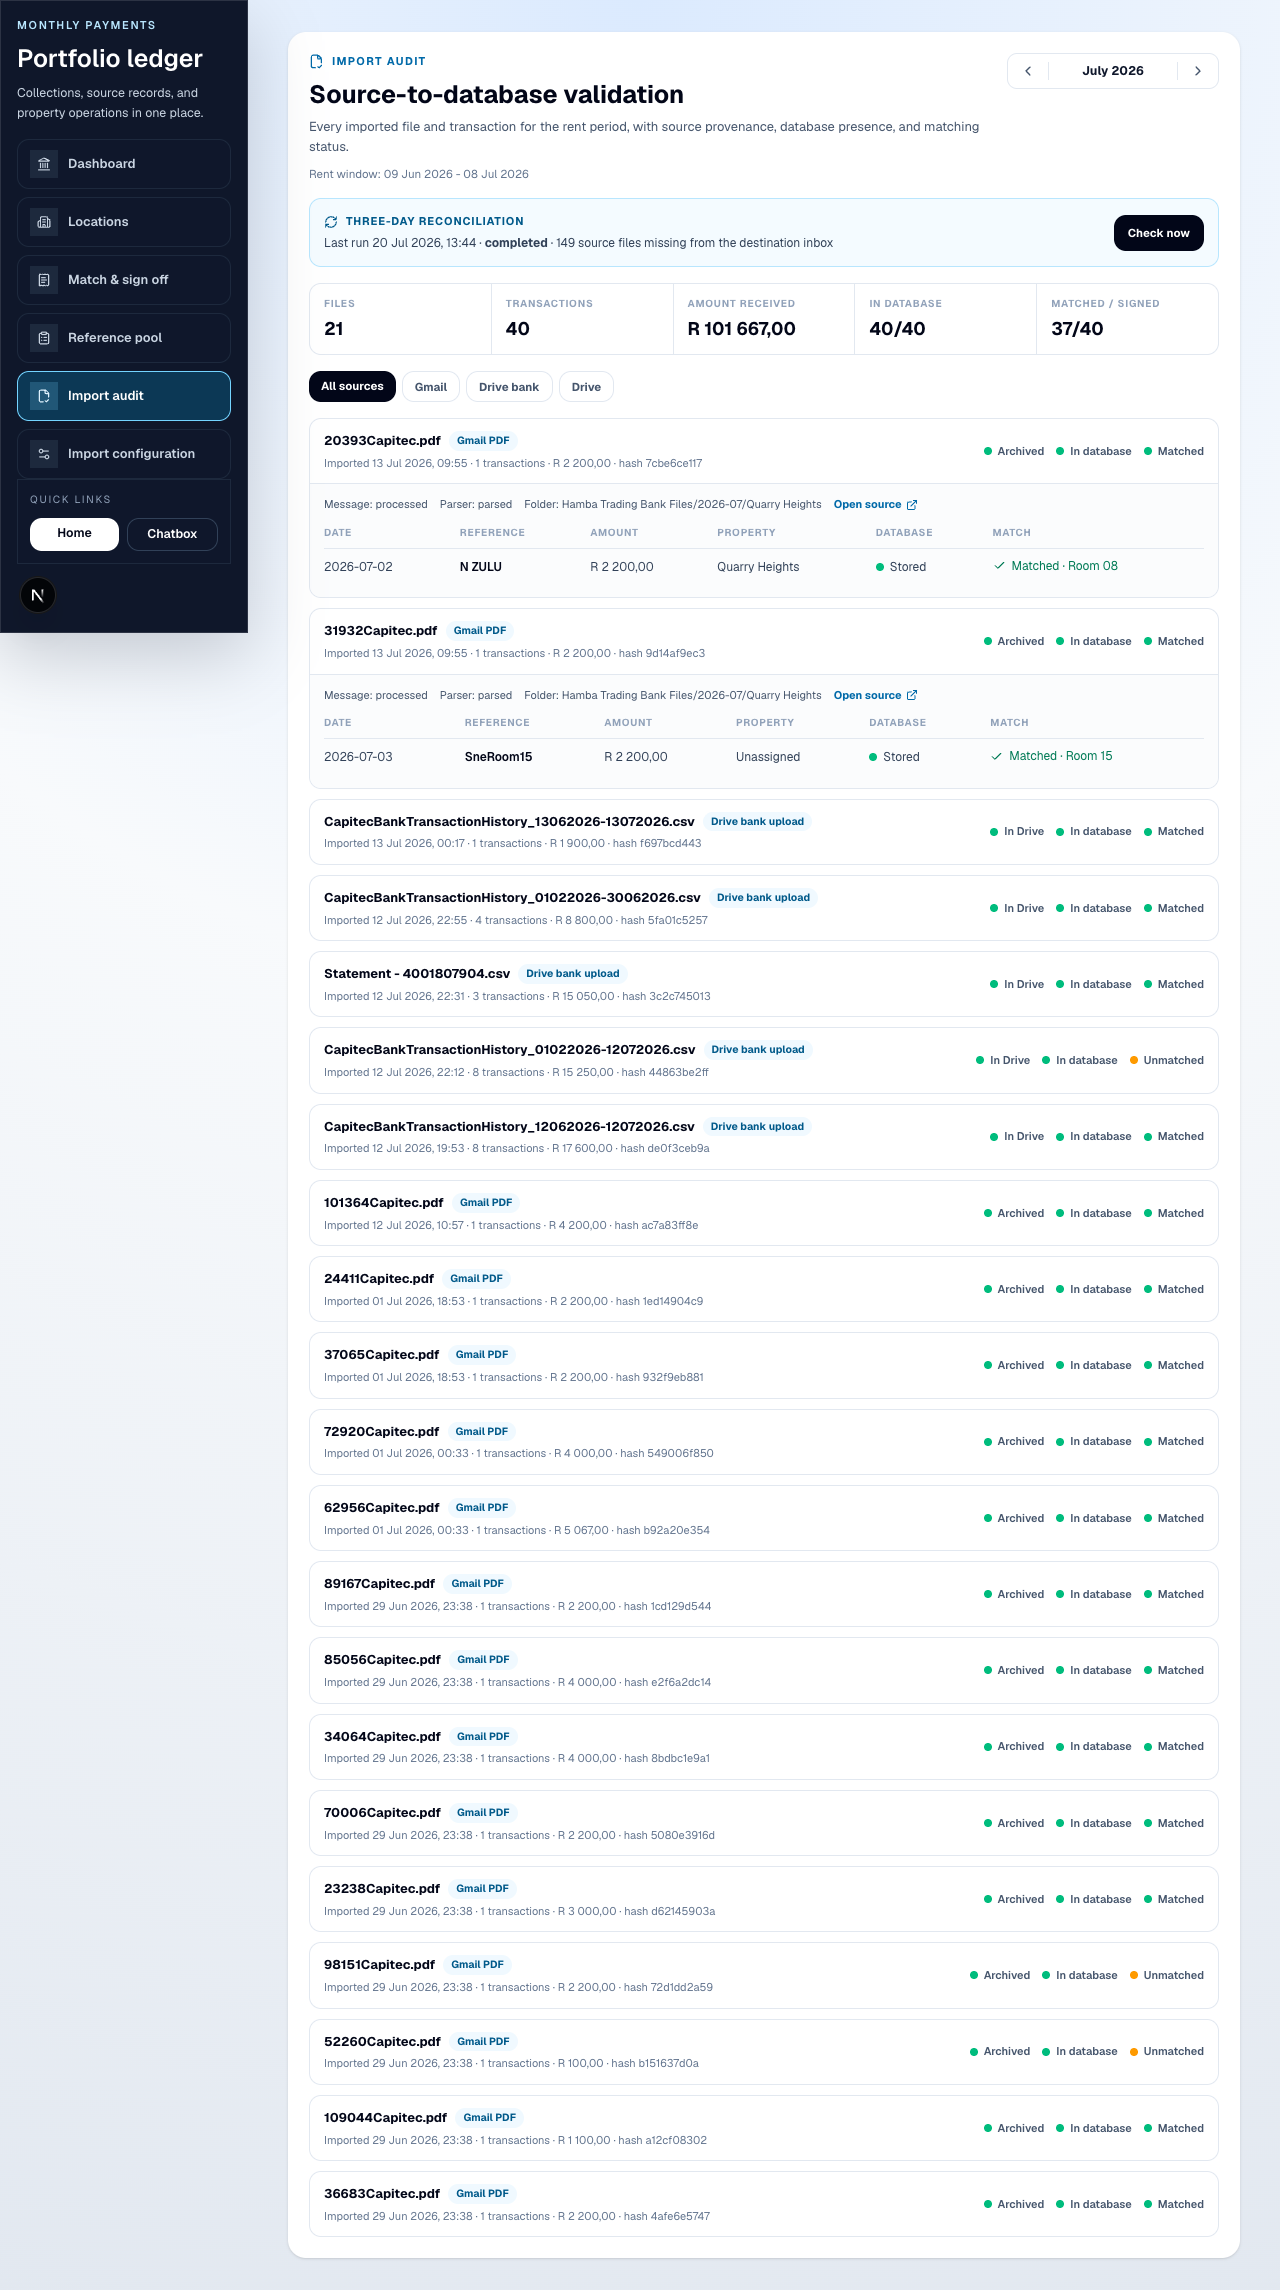
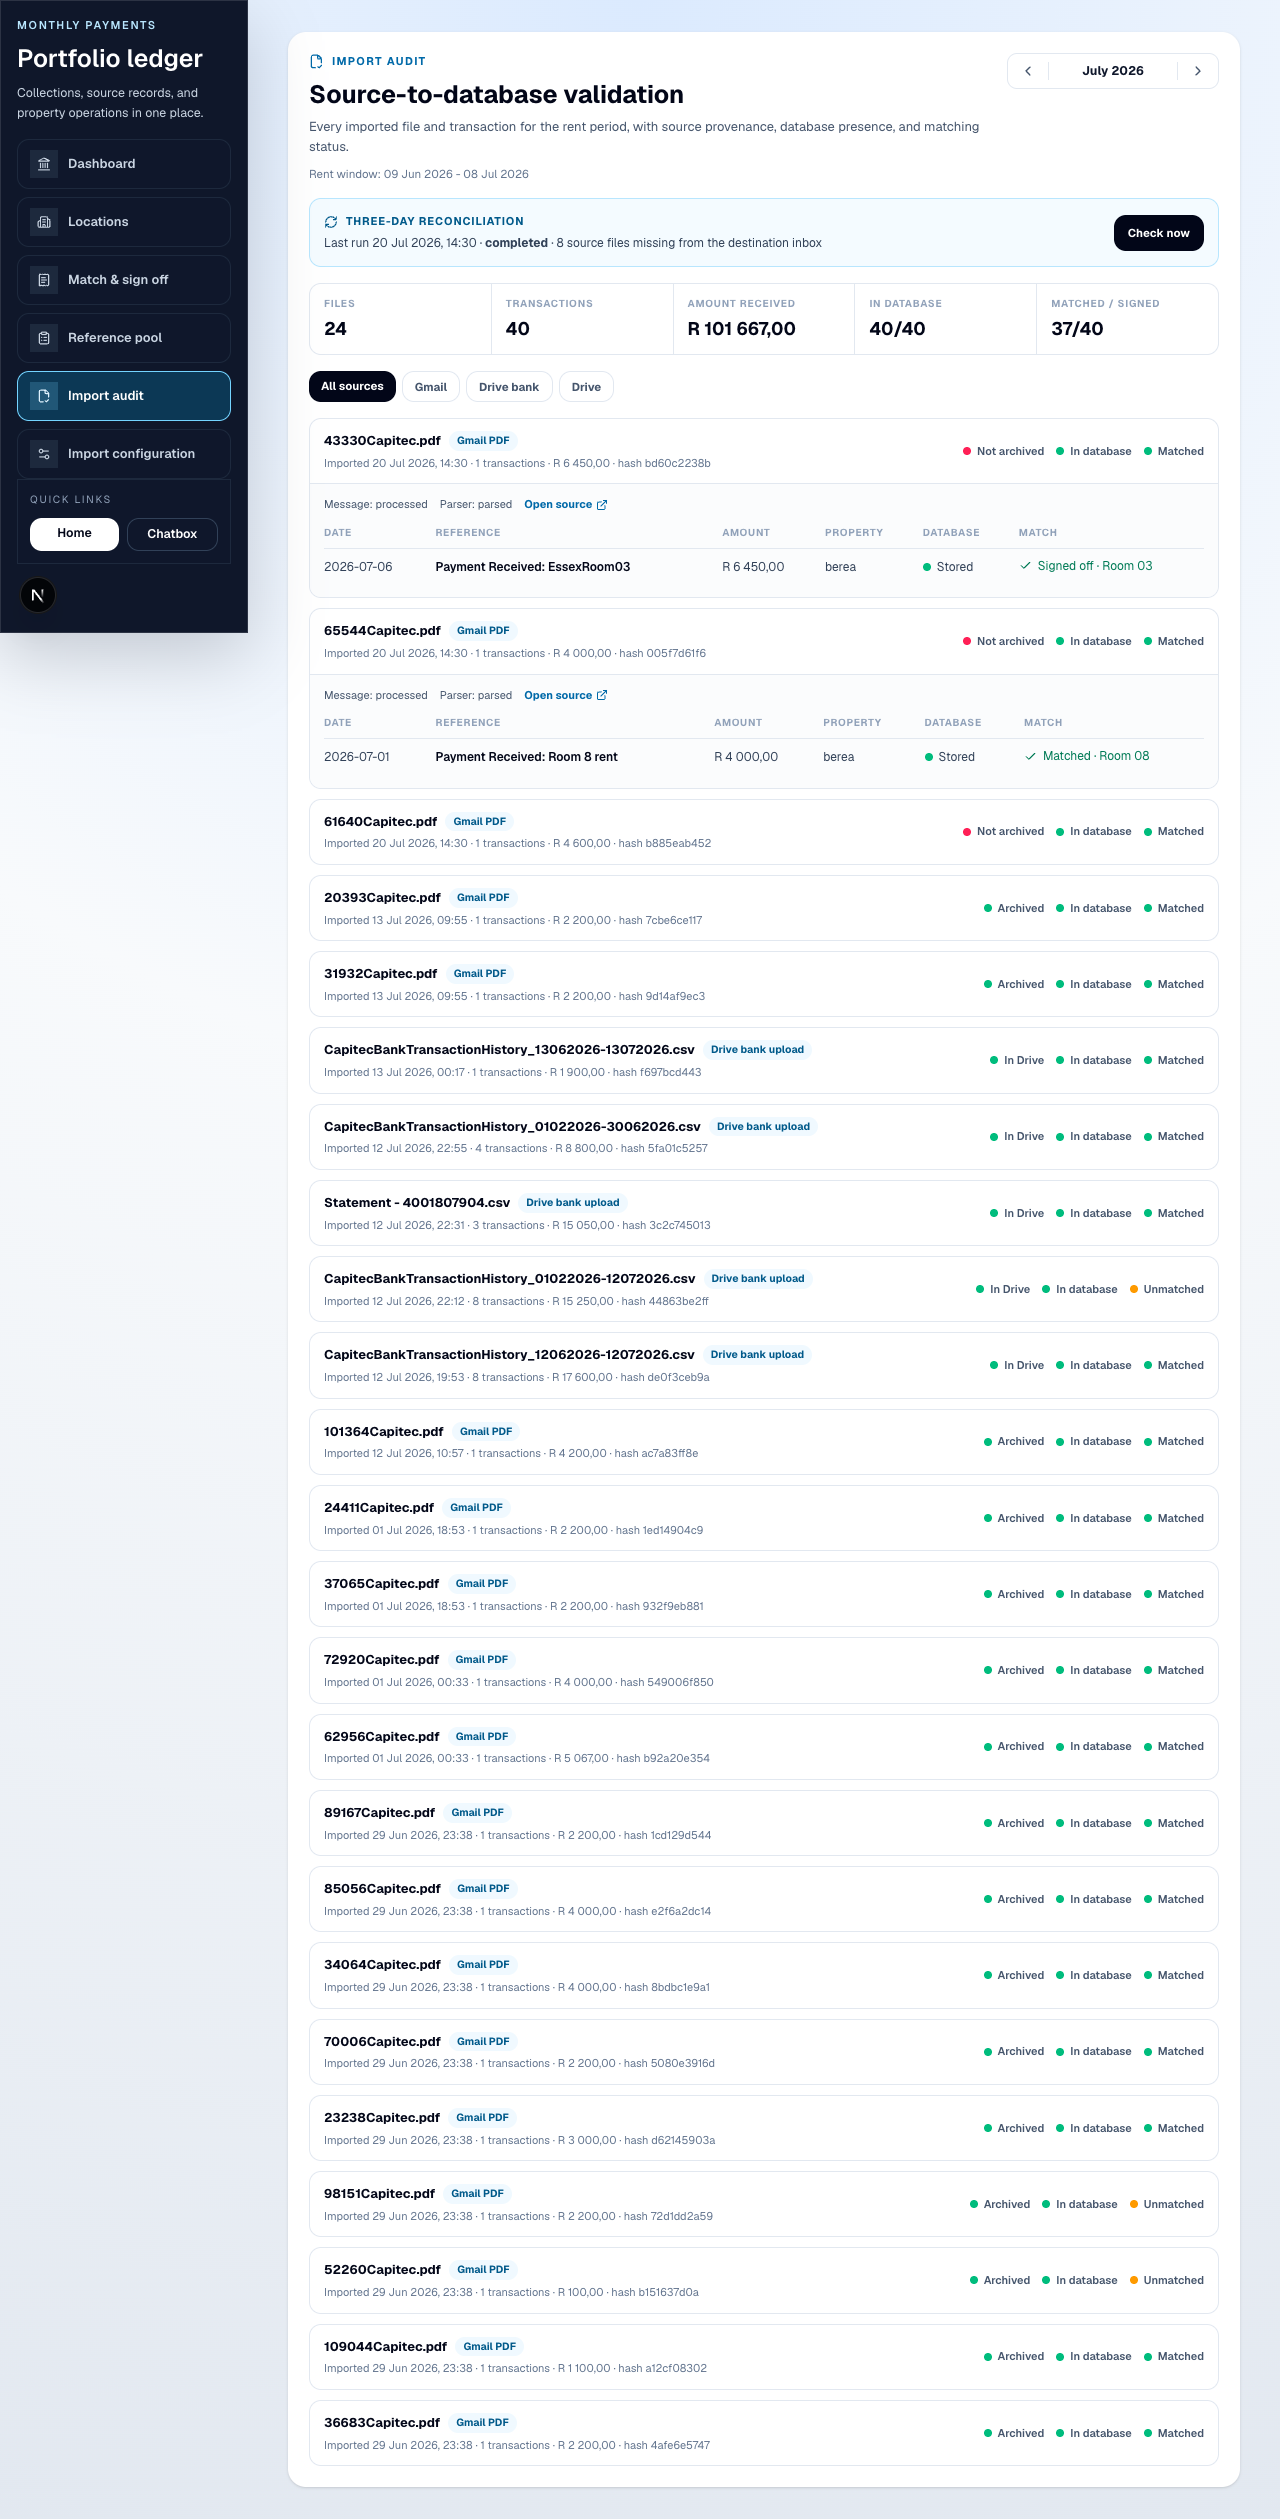
Link alternate payment evidence to canonical entries

diff --git a/src/lib/bank-import.ts b/src/lib/bank-import.ts
@@ -1414,6 +1414,26 @@ async function markBankImportFile(input: {
   if (error) throw new Error(`Failed to update bank import file ${input.fileId}: ${error.message}`);
 }
 
+async function linkBankImportFileToCanonicalEntry(fileId: string, canonicalEntryId: string) {
+  const admin = getSupabaseAdmin();
+  const { data: file, error: readError } = await admin
+    .from('bank_import_files')
+    .select('raw_metadata')
+    .eq('id', fileId)
+    .single();
+  if (readError) throw new Error(`Failed to load alternate evidence file ${fileId}: ${readError.message}`);
+  const { error } = await admin
+    .from('bank_import_files')
+    .update({
+      raw_metadata: {
+        ...((file?.raw_metadata as Record<string, unknown> | null) ?? {}),
+        canonicalEntryId,
+      },
+    })
+    .eq('id', fileId);
+  if (error) throw new Error(`Failed to link alternate evidence file ${fileId}: ${error.message}`);
+}
+
 async function upsertBankImportEntry(input: {
   fileId: string;
   organizationId: string;
@@ -1436,7 +1456,10 @@ async function upsertBankImportEntry(input: {
       (candidate.transaction_time as string).slice(0, 5) === incomingMinute &&
       canonicalizeBankReference(candidate.reference as string) === incomingReference
     );
-    if (existingCrossSource) return existingCrossSource.id as string;
+    if (existingCrossSource) {
+      await linkBankImportFileToCanonicalEntry(input.fileId, existingCrossSource.id as string);
+      return existingCrossSource.id as string;
+    }
   }
   const fingerprint = buildEntryFingerprint({
     organizationId: input.organizationId,
@@ -2484,20 +2507,9 @@ export async function archiveStoredFilesToDrive(options?: {
   }
 
   const admin = getSupabaseAdmin();
-  const { data: incomingEntries, error: incomingEntriesError } = await admin
-    .from('bank_import_entries')
-    .select('file_id')
-    .eq('organization_id', mailbox.organization_id)
-    .ilike('transaction_type', 'incoming funds');
-  if (incomingEntriesError) throw new Error(`Failed to load incoming files for Drive archive: ${incomingEntriesError.message}`);
-  const incomingFileIds = Array.from(new Set((incomingEntries ?? []).map((entry) => entry.file_id as string)));
-  if (incomingFileIds.length === 0) {
-    return { filesArchived: 0, filesSkipped: 0, foldersTouched: [] };
-  }
   const { data: files, error } = await admin
     .from('bank_import_files')
     .select('id,file_name,mime_type,storage_path,parser_status,raw_metadata')
-    .in('id', incomingFileIds)
     .eq('parser_status', 'parsed')
     .is('drive_file_id', null);
   if (error) throw new Error(`Failed to load files for Drive archive: ${error.message}`);

diff --git a/src/lib/import-audit.ts b/src/lib/import-audit.ts
@@ -139,13 +139,15 @@ export async function readImportAuditView(input?: {
 
   const entries = entriesResult.data ?? [];
   const entryFileIds = new Set(entries.map((entry) => entry.file_id as string));
+  const entryIds = entries.map((entry) => entry.id as string);
+  const entryIdSet = new Set(entryIds);
   const files = (filesResult.data ?? []).filter((file) => {
     const metadata = file.raw_metadata as Record<string, unknown> | null;
     if (metadata?.exclusionReason === 'internal_non_rent_account') return false;
-    return entryFileIds.has(file.id as string);
+    const canonicalEntryId = typeof metadata?.canonicalEntryId === 'string' ? metadata.canonicalEntryId : null;
+    return entryFileIds.has(file.id as string) || Boolean(canonicalEntryId && entryIdSet.has(canonicalEntryId));
   });
   const messageIds = files.map((file) => file.message_id as string).filter(Boolean);
-  const entryIds = entries.map((entry) => entry.id as string);
   const propertyIds = Array.from(new Set(entries.map((entry) => entry.property_id as string | null).filter(Boolean))) as string[];
 
   const [messagesResult, referencesResult, propertiesResult] = await Promise.all([
@@ -188,6 +190,15 @@ export async function readImportAuditView(input?: {
     const fileEntries = entriesByFile.get(entry.file_id as string) ?? [];
     fileEntries.push(entry);
     entriesByFile.set(entry.file_id as string, fileEntries);
+  }
+  const entryById = new Map(entries.map((entry) => [entry.id as string, entry]));
+  for (const file of files) {
+    const metadata = file.raw_metadata as Record<string, unknown> | null;
+    const canonicalEntryId = typeof metadata?.canonicalEntryId === 'string' ? metadata.canonicalEntryId : null;
+    const canonicalEntry = canonicalEntryId ? entryById.get(canonicalEntryId) : null;
+    if (canonicalEntry && !entriesByFile.has(file.id as string)) {
+      entriesByFile.set(file.id as string, [canonicalEntry]);
+    }
   }
 
   const auditFiles: ImportAuditFile[] = files.map((file) => {
@@ -252,7 +263,9 @@ export async function readImportAuditView(input?: {
   });
 
   const filteredFiles = sourceFilter === 'all' ? auditFiles : auditFiles.filter((file) => file.source === sourceFilter);
-  const transactions = filteredFiles.flatMap((file) => file.transactions);
+  const transactions = Array.from(
+    new Map(filteredFiles.flatMap((file) => file.transactions).map((transaction) => [transaction.id, transaction])).values()
+  );
   return {
     periodKey,
     periodLabel: formatPeriodLabel(periodKey),

diff --git a/src/lib/bank-import-reconciliation.ts b/src/lib/bank-import-reconciliation.ts
@@ -142,16 +142,18 @@ export async function runBankImportReconciliation(input?: { force?: boolean; tri
     const mailboxIds = mailboxes.map((mailbox) => mailbox.id);
     const since = new Date();
     since.setUTCDate(since.getUTCDate() - 120);
-    const [occurrencesResult, problemFilesResult, entriesResult] = await Promise.all([
+    const [occurrencesResult, problemFilesResult, evidenceFilesResult, entriesResult] = await Promise.all([
       admin.from('bank_import_file_occurrences').select('mailbox_id,file_id,file_sha256').in('mailbox_id', mailboxIds).gte('last_seen_at', since.toISOString()),
       admin.from('bank_import_files').select('id', { count: 'exact', head: true }).in('parser_status', ['pending', 'failed']),
+      admin.from('bank_import_files').select('id').eq('parser_status', 'parsed'),
       admin.from('bank_import_entries').select('id,file_id').eq('organization_id', organizationId).ilike('transaction_type', 'incoming funds'),
     ]);
     if (occurrencesResult.error) throw new Error(`Failed to compare mailbox files: ${occurrencesResult.error.message}`);
     if (problemFilesResult.error) throw new Error(`Failed to count problem import files: ${problemFilesResult.error.message}`);
+    if (evidenceFilesResult.error) throw new Error(`Failed to load parsed payment evidence: ${evidenceFilesResult.error.message}`);
     if (entriesResult.error) throw new Error(`Failed to load imported entries: ${entriesResult.error.message}`);
     const entryIds = (entriesResult.data ?? []).map((entry) => entry.id as string);
-    const relevantFileIds = new Set((entriesResult.data ?? []).map((entry) => entry.file_id as string));
+    const relevantFileIds = new Set((evidenceFilesResult.data ?? []).map((file) => file.id as string));
     const referencesResult = entryIds.length
       ? await admin.from('payment_references').select('bank_import_entry_id').in('bank_import_entry_id', entryIds)
       : { data: [], error: null };

diff --git a/src/workflows/bank-import-reconciliation.ts b/src/workflows/bank-import-reconciliation.ts
@@ -192,17 +192,19 @@ async function finalizeReconciliation(
     const mailboxIds = preparation.mailboxes.map((mailbox) => mailbox.id);
     const since = new Date();
     since.setUTCDate(since.getUTCDate() - 120);
-    const [occurrencesResult, problemFilesResult, entriesResult] = await Promise.all([
+    const [occurrencesResult, problemFilesResult, evidenceFilesResult, entriesResult] = await Promise.all([
       admin.from('bank_import_file_occurrences').select('mailbox_id,file_id,file_sha256').in('mailbox_id', mailboxIds).gte('last_seen_at', since.toISOString()),
       admin.from('bank_import_files').select('id', { count: 'exact', head: true }).in('parser_status', ['pending', 'failed']),
+      admin.from('bank_import_files').select('id').eq('parser_status', 'parsed'),
       admin.from('bank_import_entries').select('id,file_id').eq('organization_id', preparation.organizationId).ilike('transaction_type', 'incoming funds'),
     ]);
     if (occurrencesResult.error) throw new Error(`Failed to compare mailbox files: ${occurrencesResult.error.message}`);
     if (problemFilesResult.error) throw new Error(`Failed to count problem import files: ${problemFilesResult.error.message}`);
+    if (evidenceFilesResult.error) throw new Error(`Failed to load parsed payment evidence: ${evidenceFilesResult.error.message}`);
     if (entriesResult.error) throw new Error(`Failed to load imported entries: ${entriesResult.error.message}`);
 
     const entryIds = (entriesResult.data ?? []).map((entry) => entry.id as string);
-    const relevantFileIds = new Set((entriesResult.data ?? []).map((entry) => entry.file_id as string));
+    const relevantFileIds = new Set((evidenceFilesResult.data ?? []).map((file) => file.id as string));
     const referencesResult = entryIds.length
       ? await admin.from('payment_references').select('bank_import_entry_id').in('bank_import_entry_id', entryIds)
       : { data: [], error: null };